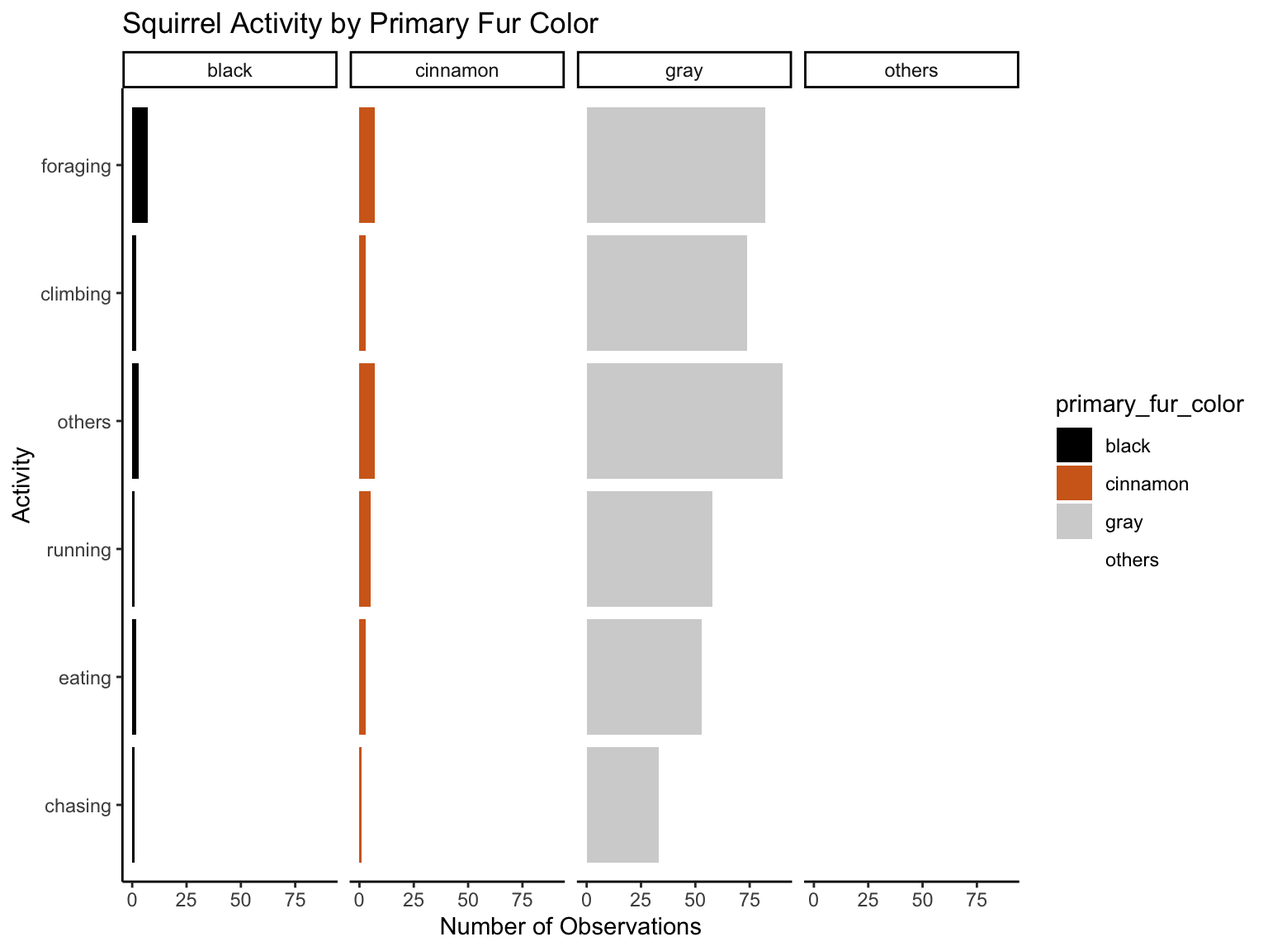
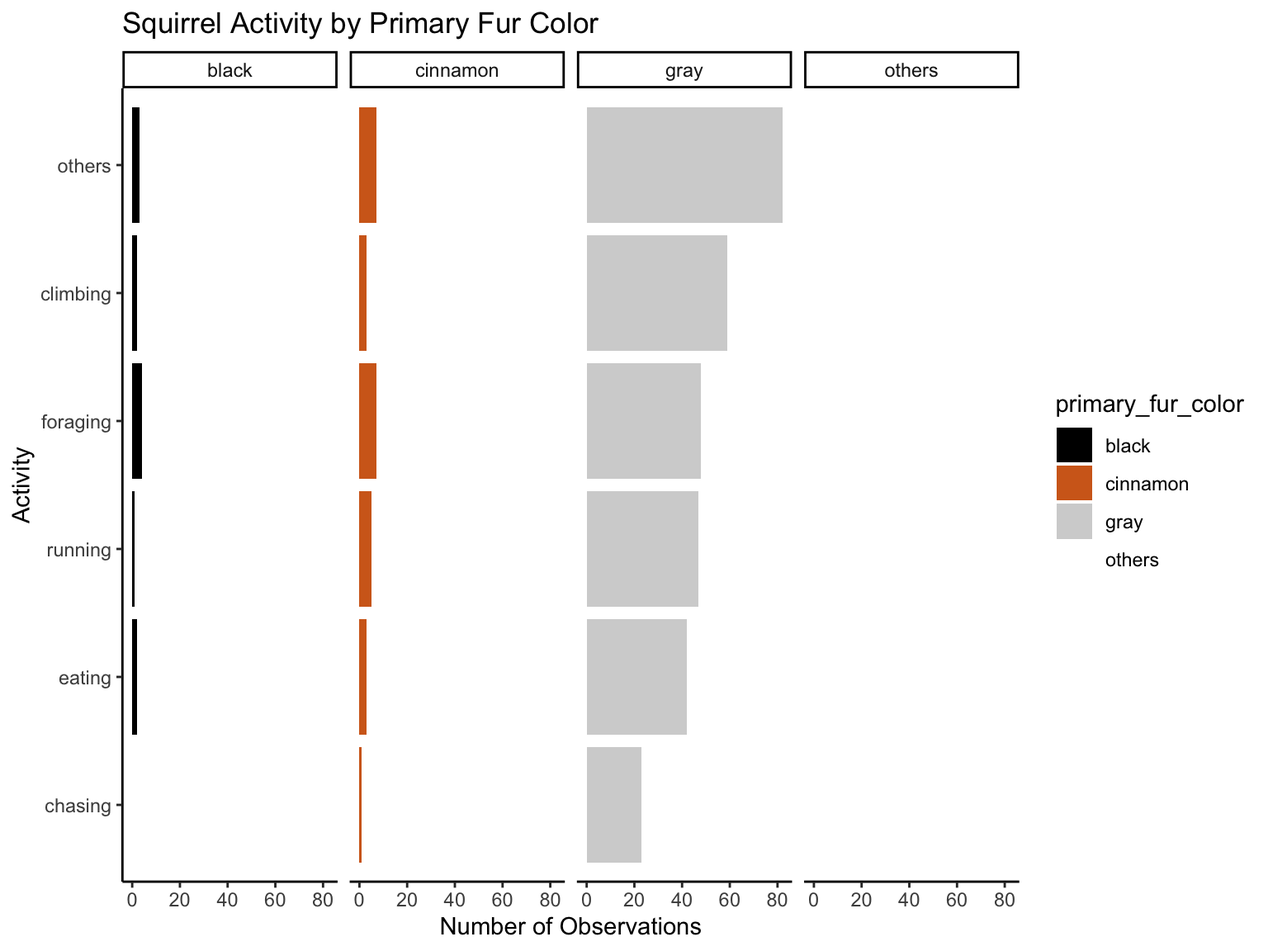
delete outlier observation and make color changes in graphs

diff --git a/sqr_nyc.html b/sqr_nyc.html
@@ -464,7 +464,8 @@ div.tocify {
        &quot;other_notes_or_observations&quot;,  &quot;squirrel_longitude_dd_dddddd&quot;,
           &quot;squirrel_latitude_dd_dddddd&quot;)
     ) %&gt;% 
-  dplyr::select(unique_squirrel_id,everything()) 
+  dplyr::select(unique_squirrel_id,everything()) %&gt;% 
+  filter(long &lt; -70 )
 
 # sqr_nyc %&gt;% group_by(activity) %&gt;%
 #   summarize(n = n()) %&gt;%
@@ -508,13 +509,13 @@ location (above ground, ground plane).</p>
   geom_col(aes(y=n,x = activity, fill = location), position=&quot;fill&quot;) +
   ggtitle(&#39;Central Park Squirrels Acitivities by Location&#39;) +
   theme(plot.title = element_text(hjust = 0.5)) +
-  labs( x = &#39;Activity&#39;, y= &#39;Proportion&#39;) +
+ theme(plot.title = element_text(hjust = 0.5), panel.grid.minor = element_blank(),panel.grid.major = element_blank())+ labs( x = &#39;Activity&#39;, y= &#39;Proportion&#39;)+
   labs(fill = &#39;Location&#39;) </code></pre>
 <p><img src="sqr_nyc_files/figure-html/unnamed-chunk-3-1.png" width="90%" /></p>
 </div>
 <div id="primary-fur-color-map" class="section level2">
 <h2>Primary Fur Color Map</h2>
-<pre class="r"><code>pal_coats &lt;- colorFactor(c(&quot;#000000&quot;, &quot;#D2691E&quot;, &quot;#D3D3D3&quot;, &quot;white&quot;), domain = c(&quot;black&quot;, &quot;cinnamon&quot;, &quot;gray&quot;, &quot;NA&quot;))
+<pre class="r"><code>pal_coats &lt;- colorFactor(c(&quot;#000000&quot;, &quot;#D2691E&quot;, &quot;#D3D3D3&quot;, &quot;white&quot;), domain = c(&quot;black&quot;, &quot;cinnamon&quot;, &quot;grey&quot;, &quot;others&quot;))
 
 #Locations based on fur color
 sqr_nyc %&gt;%
@@ -524,8 +525,8 @@ sqr_nyc %&gt;%
   addCircleMarkers(lng = ~long,
                    lat = ~lat, radius = 3, color = ~pal_coats(primary_fur_color), stroke = FALSE, fillOpacity = 0.5) %&gt;%
   addLegend(position = &quot;topright&quot;,pal = pal_coats, values = ~primary_fur_color)</code></pre>
-<div id="htmlwidget-a8725fe0ea62c5f6ec54" style="width:90%;height:576px;" class="leaflet html-widget"></div>
-<script type="application/json" data-for="htmlwidget-a8725fe0ea62c5f6ec54">{"x":{"options":{"crs":{"crsClass":"L.CRS.EPSG3857","code":null,"proj4def":null,"projectedBounds":null,"options":{}}},"calls":[{"method":"addTiles","args":["https://{s}.tile.openstreetmap.org/{z}/{x}/{y}.png",null,null,{"minZoom":0,"maxZoom":18,"tileSize":256,"subdomains":"abc","errorTileUrl":"","tms":false,"noWrap":false,"zoomOffset":0,"zoomReverse":false,"opacity":1,"zIndex":1,"detectRetina":false,"attribution":"&copy; <a href=\"https://openstreetmap.org\">OpenStreetMap<\/a> contributors, <a href=\"https://creativecommons.org/licenses/by-sa/2.0/\">CC-BY-SA<\/a>"}]},{"method":"addCircleMarkers","args":[[40.85941,40.859436,40.859416,40.859418,40.859493,40.860825,40.860225,40.859965,40.859892,40.859636,40.859576,40.859989,40.845749,40.845875,40.845875,40.846088,40.846088,40.846088,40.846222,40.846222,40.846197,40.846185,40.846271,40.846332,40.846332,40.846332,40.846458,40.846417,40.846296,40.846064,40.846065,40.847296,40.847259,40.84719,40.84719,40.847113,40.841178,40.841204,40.841212,40.841217,40.841359,40.841375,40.841375,40.842308,40.842401,40.842511,40.842673,40.842795,null,40.842327,40.842359,40.842769,40.817593,40.817719,40.817719,40.817711,40.817569,40.817544,40.817544,40.817479,40.816685,40.816677,40.816555,40.816506,40.816425,40.818308,40.818263,null,null,null,null,null,null,null,null,null,null,null,null,null,null,null,null,null,null,null,null,null,null,null,null,null,null,null,null,40.804912,40.804912,40.804913,40.804915,40.804916,40.804914,40.804917,40.804912,40.804701,40.804746,40.804912,40.804729,40.804713,40.804613,40.804564,40.804253,40.803758,40.803616,40.803413,40.80338,40.803392,40.803794,40.803795,40.803794,40.803794,40.803796,40.803795,40.80362,40.80352,40.803507,40.803981,40.804123,40.803981,40.804878,40.74145,40.742255,40.742556,40.742792,40.74288,40.742421,40.742421,40.742807,40.741528,40.741805,40.741862,40.735981,40.735847,40.735896,40.73579,40.735941,40.73566,40.735636,40.73566,40.735587,40.73542,40.735514,40.735945,40.735947,40.73604,40.73618,40.736298,40.733753,40.733648,40.733631,40.733546,40.733591,40.733648,40.733737,40.733501,40.733575,40.733506,40.733619,40.733648,40.733737,40.733932,40.734014,40.734221,40.734083,40.73403,40.734204,40.734314,40.734261,40.734144,40.734335,40.734383,40.734356,40.730703,40.730638,40.730528,40.730394,40.730341,40.7303,40.730247,40.730231,40.730223,40.730077,null,null,null,null,40.729858,40.72985,40.729822,40.729809,40.729939,40.729976,40.72996,40.729927,40.729988,40.72998,40.730318,40.730301,40.730334,40.730411,40.730395,40.730411,40.731031,40.731504,40.731548,40.731608,40.731503,40.731552,40.731952,40.731936,40.732001,40.731974,40.731861,40.731804,40.731747,40.731665,40.731548,40.731389,40.7312,40.731119,40.731103,40.73092,40.730782,null,null,null,null,null,null,null,null,null,null,null,null,null,null,null,null,null,null,null,null,null,null,null,null,null,null,null,null,null,null,null,null,null,null,null,null,null,null,null,null,null,null,null,null,null,null,null,null,null,null,null,null,null,null,null,null,null,null,null,40.725738,40.722614,40.72263,40.72263,40.722614,40.722173,40.719379,40.71935,40.721923,40.724011,40.724608,40.724774,40.715415,40.715484,40.714749,40.71468,40.714846,40.715033,40.715208,40.712159,40.712199,40.712118,40.712179,40.712216,40.712224,40.71224,40.711927,40.711866,40.71174,40.711442,40.711316,40.711417,40.711421,40.711409,40.711303,40.714867,40.7159,40.714875,40.715779,40.716335,40.712828,40.712938,40.712938,40.712893,40.712893,40.712922,40.712922,40.713044,40.712836,40.712881,40.712995,40.713044,40.713276,40.713339,40.713518,40.71312,40.712872,40.712872,40.704053,40.704011,40.703897,40.703885,40.703848,40.703882,40.704211,40.704142,40.704175,40.704171,40.704468,40.704453,40.70442,40.704188,40.70352,40.703487,40.703989,40.703383,40.70295,40.702934,40.702922,40.702411,40.702313,40.702467,40.702597,40.702618,40.725308,40.725511,40.725511,40.725478,40.725527,40.725397,40.725413,40.724755,40.723974,40.723462,40.725372,40.725364,40.725397,40.725197,40.72167,40.721768,40.721662,40.721857,40.721941,40.722039,40.72147,40.721713,40.721933,40.722283,40.722698,40.722819,40.722966,40.723136,40.723071,40.723006,40.722962,40.722603,40.721247,40.720606,40.720582,40.720533,40.720488,40.720458,40.720018,40.720026,40.719777,40.720114,40.719944,40.720448,40.720412,40.720372,40.720749,40.721181,40.721181,40.72112,40.721315,40.721258,40.721217,40.721173,40.721161,40.721124,40.721026,40.719376],[-73.933936,-73.933937,-73.933894,-73.933895,-73.93359,-73.932871,-73.933143,-73.933412,-73.933326,-73.933717,-73.933738,-73.934544,-73.9407,-73.940808,-73.940808,-73.940613,-73.940613,-73.940613,-73.94094,-73.94094,-73.941026,-73.940613,-73.940579,-73.940369,-73.940369,-73.940369,-73.94103,-73.941115,-73.941132,-73.941497,-73.941498,-73.942061,-73.941598,-73.941308,-73.941308,-73.940937,-73.935482,-73.935434,-73.934827,-73.934714,-73.934339,-73.934242,-73.934242,-73.933061,-73.932986,-73.932916,-73.932793,-73.933002,null,-73.934269,-73.934177,-73.934478,-73.948855,-73.948855,-73.948914,-73.949118,-73.948931,-73.949016,-73.949016,-73.949006,-73.949689,-73.949549,-73.949609,-73.949587,-73.949474,-73.948952,-73.948909,null,null,null,null,null,null,null,null,null,null,null,null,null,null,null,null,null,null,null,null,null,null,null,null,null,null,null,null,-73.943735,-73.943736,-73.943735,-73.943737,-73.943735,-73.943736,-73.943737,-73.943738,-73.944118,-73.94374,-73.94408,-73.944053,-73.944032,-73.943829,-73.943824,-73.944121,-73.94433,-73.944464,-73.944207,-73.944148,-73.944228,-73.944003,-73.944003,-73.944004,-73.944005,-73.944003,-73.944004,-73.944067,-73.943629,-73.943661,-73.943327,-73.943402,-73.943273,-73.942781,-73.987884,-73.987433,-73.986971,-73.987046,-73.987663,-73.98808,-73.98808,-73.988435,-73.988324,-73.988448,-73.988797,-73.99062,-73.990115,-73.99041,-73.990738,-73.99063,-73.990351,-73.990426,-73.990351,-73.990367,-73.990453,-73.99033,-73.990201,-73.99023,-73.98966,-73.990683,-73.990559,-73.983682,-73.983483,-73.983419,-73.983263,-73.983263,-73.984294,-73.98438,-73.984417,-73.984391,-73.984553,-73.984708,-73.984638,-73.984644,-73.984612,-73.984461,-73.984397,-73.984322,-73.984199,-73.984242,-73.984231,-73.984284,-73.984059,-73.984038,-73.984118,-73.984062,-73.995821,-73.995784,-73.995891,-73.996009,-73.996052,-73.996106,-73.996175,-73.996138,-73.996132,-73.996277,null,null,null,null,-73.996843,-73.996778,-73.996816,-73.996762,-73.997068,-73.997154,-73.997079,-73.997036,-73.997106,-73.997031,-73.997213,-73.997251,-73.997589,-73.997589,-73.997535,-73.997766,-73.999122,-73.998977,-73.998842,-73.998928,-73.999014,-73.998788,-73.998647,-73.998598,-73.998491,-73.998482,-73.998122,-73.997999,-73.997859,-73.997747,-73.99758,-73.997231,-73.996805,-73.996655,-73.996601,-73.996242,-73.996017,null,null,null,null,null,null,null,null,null,null,null,null,null,null,null,null,null,null,null,null,null,null,null,null,null,null,null,null,null,null,null,null,null,null,null,null,null,null,null,null,null,null,null,null,null,null,null,null,null,null,null,null,null,null,null,null,null,null,null,-73.972105,-73.972894,-73.973001,-73.973109,-73.973033,-73.97272,-73.973504,-73.973445,-73.974121,-73.97313,-73.972841,-73.97275,-73.989567,-73.989299,-73.989577,-73.989776,-73.989679,-73.989609,-73.989534,-73.979415,-73.979519,-73.97968,-73.979776,-73.979857,-73.979669,-73.979744,-73.979658,-73.97976,-73.980539,-73.978354,-73.978343,73.977767,-73.977692,-73.977719,-73.97759,-74.000236,-74.000167,-74.000346,-73.999887,-74.015612,-74.005072,-74.005152,-74.005152,-74.005233,-74.005233,-74.005147,-74.005147,-74.005404,-74.005662,-74.005823,-74.005963,-74.006242,-74.006323,-74.006313,-74.006308,-74.006862,-74.006878,-74.006878,-74.01612,-74.016134,-74.016118,-74.016161,-74.016134,-74.015955,-74.015859,-74.015837,-74.015306,-74.015242,-74.014774,-74.014757,-74.014741,-74.014853,-74.015273,-74.015278,-74.015202,-74.015584,-74.015813,-74.015775,-74.016629,-74.015896,-74.015644,-74.015757,-74.016132,-74.016556,-73.942789,-73.943609,-73.943448,-73.944113,-73.943974,-73.944124,-73.943984,-73.944006,-73.943845,-73.943952,-73.943652,-73.943512,-73.943297,-73.943273,-73.953364,-73.953192,-73.953278,-73.953139,-73.952947,-73.952796,-73.952857,-73.95305,-73.953147,-73.953115,-73.953198,-73.952095,-73.951987,-73.951794,-73.951697,-73.951655,-73.951752,-73.951449,-73.951609,-73.952769,-73.952694,-73.95272,-73.952806,-73.954244,-73.953442,-73.953652,-73.952774,-73.952768,-73.952505,-73.952521,-73.952353,-73.952326,-73.951891,-73.951255,-73.951255,-73.95104,-73.950943,-73.950799,-73.95077,-73.950781,-73.950732,-73.950797,-73.950765,-73.952326],3,null,null,{"interactive":true,"className":"","stroke":false,"color":["#D3D3D3","#D3D3D3","#D3D3D3","#D3D3D3","#D3D3D3","#D3D3D3","#D3D3D3","#000000","#D3D3D3","#D3D3D3","#D3D3D3","#D3D3D3","#D3D3D3","#D3D3D3","#D3D3D3","#D3D3D3","#D3D3D3","#D3D3D3","#D3D3D3","#D3D3D3","#D3D3D3","#D3D3D3","#D3D3D3","#D3D3D3","#D3D3D3","#D3D3D3","#D3D3D3","#D3D3D3","#D3D3D3","#D3D3D3","#D3D3D3","#D3D3D3","#D3D3D3","#D3D3D3","#D3D3D3","#D2691E","#D3D3D3","#D3D3D3","#D3D3D3","#D3D3D3","#D3D3D3","#D3D3D3","#D3D3D3","#D3D3D3","#D3D3D3","#D3D3D3","#D3D3D3","#D3D3D3","#D3D3D3","#D3D3D3","#D3D3D3","#D3D3D3","#D3D3D3","#000000","#D3D3D3","#D3D3D3","#D3D3D3","#D3D3D3","#D3D3D3","#D3D3D3","#D3D3D3","#D3D3D3","#000000","#D3D3D3","#D3D3D3","#D3D3D3","#D3D3D3","#D3D3D3","#D3D3D3","#D3D3D3","#D3D3D3","#D3D3D3","#D3D3D3","#D3D3D3","#D3D3D3","#D3D3D3","#D3D3D3","#D3D3D3","#D3D3D3","#D3D3D3","#D3D3D3","#D3D3D3","#D3D3D3","#D3D3D3","#D3D3D3","#D3D3D3","#D3D3D3","#D3D3D3","#D3D3D3","#D3D3D3","#D3D3D3","#D3D3D3","#D3D3D3","#D3D3D3","#D3D3D3","#D3D3D3","#D3D3D3","#D3D3D3","#D3D3D3","#D3D3D3","#D3D3D3","#D3D3D3","#000000","#D3D3D3","#D3D3D3","#D3D3D3","#D3D3D3","#D3D3D3","#D3D3D3","#D3D3D3","#D3D3D3","#D3D3D3","#D3D3D3","#D3D3D3","#D3D3D3","#D3D3D3","#D3D3D3","#D3D3D3","#D3D3D3","#D3D3D3","#D3D3D3","#D3D3D3","#D3D3D3","#D3D3D3","#D3D3D3","#D3D3D3","#D3D3D3","#000000","#D3D3D3","#D3D3D3","#D3D3D3","#D3D3D3","#D3D3D3","#D3D3D3","#D3D3D3","#D3D3D3","#D3D3D3","#D3D3D3","#D3D3D3","#D3D3D3","#D2691E","#D3D3D3","#D2691E","#D3D3D3","#D3D3D3","#D3D3D3","#D3D3D3","#D3D3D3","#D3D3D3","#D3D3D3","#D2691E","#D3D3D3","#D2691E","#D3D3D3","#D3D3D3","#D2691E","#D3D3D3","#D3D3D3","#D3D3D3","#D3D3D3","#D3D3D3","#D3D3D3","#D3D3D3","#D3D3D3","#D3D3D3","#D3D3D3","#D3D3D3","#D3D3D3","#D3D3D3","#000000","#000000","#000000","#D3D3D3","#D3D3D3","#000000","#D3D3D3","#D3D3D3","#D3D3D3","#D3D3D3","#000000","#000000","#D3D3D3","#D3D3D3","#D3D3D3","#D3D3D3","#D3D3D3","#D3D3D3","#D3D3D3","#D3D3D3","#D3D3D3","#D3D3D3","#D3D3D3","#D3D3D3","#D3D3D3","#D3D3D3","#D3D3D3","#D3D3D3","#D3D3D3","#D3D3D3","#D3D3D3","#D3D3D3","#D3D3D3","#D3D3D3","#D3D3D3","#D3D3D3","#D3D3D3","#D3D3D3","#D3D3D3","#D3D3D3","#D3D3D3","#D3D3D3","#D3D3D3","#D3D3D3","#D3D3D3","#D3D3D3","#D3D3D3","#D3D3D3","#D3D3D3","#D3D3D3","#D3D3D3","#D3D3D3","#D3D3D3","#D3D3D3","#D3D3D3","#D3D3D3","#D3D3D3","#D3D3D3","#D3D3D3","#D3D3D3","#D3D3D3","#D3D3D3","#D3D3D3","#D3D3D3","#D3D3D3","#000000","#D3D3D3","#D3D3D3","#D3D3D3","#D3D3D3","#D3D3D3","#D3D3D3","#D3D3D3","#D3D3D3","#D3D3D3","#D3D3D3","#D3D3D3","#D3D3D3","#D3D3D3","#D3D3D3","#D3D3D3","#D3D3D3","#D3D3D3","#D3D3D3","#D3D3D3","#D3D3D3","#D3D3D3","#D3D3D3","#D3D3D3","#D3D3D3","#D3D3D3","#D3D3D3","#D3D3D3","#D3D3D3","#D3D3D3","#D3D3D3","#D3D3D3","#D3D3D3","#D3D3D3","#D3D3D3","#D3D3D3","#D3D3D3","#D3D3D3","#D3D3D3","#D3D3D3","#D3D3D3","#D3D3D3","#D3D3D3","#D3D3D3","#D3D3D3","#000000","#000000","#D3D3D3","#000000","#D3D3D3","#D3D3D3","#D3D3D3","#D3D3D3","#D3D3D3","#D3D3D3","#D3D3D3","#D3D3D3","#D3D3D3","#000000","#D3D3D3","#D3D3D3","#D3D3D3","#D3D3D3","#D3D3D3","#D3D3D3","#D3D3D3","#D3D3D3","#D3D3D3","#D3D3D3","#D3D3D3","#D3D3D3","#D3D3D3","#D3D3D3","#D3D3D3","#D3D3D3","#D3D3D3","#D3D3D3","#D3D3D3","#D3D3D3","#D3D3D3","#D3D3D3","#D3D3D3","#D3D3D3","#D3D3D3","#D3D3D3","#D3D3D3","#D3D3D3","#D3D3D3","#D3D3D3","#D3D3D3","#D3D3D3","#D2691E","#D3D3D3","#D3D3D3","#D3D3D3","#D3D3D3","#D3D3D3","#D3D3D3","#D3D3D3","#D3D3D3","#D3D3D3","#D3D3D3","#D3D3D3","#D3D3D3","#D3D3D3","#D3D3D3","#D3D3D3","#D3D3D3","#D3D3D3","#D3D3D3","#D3D3D3","#D3D3D3","#D3D3D3","#D3D3D3","#D3D3D3","#D3D3D3","#D3D3D3","#D3D3D3","#808080","#D3D3D3","#D2691E","#D2691E","#D3D3D3","#D3D3D3","#D3D3D3","#D3D3D3","#D3D3D3","#D3D3D3","#D3D3D3","#D3D3D3","#D3D3D3","#D3D3D3","#D3D3D3","#D3D3D3","#D2691E","#D3D3D3","#D2691E","#D3D3D3","#D3D3D3","#D3D3D3","#D3D3D3","#D3D3D3","#D3D3D3","#D3D3D3","#D3D3D3","#D3D3D3","#D3D3D3","#D3D3D3","#D3D3D3","#D3D3D3","#D3D3D3","#D3D3D3","#D3D3D3","#D3D3D3","#D3D3D3","#D2691E","#D3D3D3","#D3D3D3","#D3D3D3","#D2691E","#D2691E","#D2691E","#D2691E","#D3D3D3","#D3D3D3","#D3D3D3","#D3D3D3","#D3D3D3","#D2691E","#D3D3D3","#D2691E","#D3D3D3","#D2691E","#D2691E","#D3D3D3","#D3D3D3","#D3D3D3","#D3D3D3","#D3D3D3","#D3D3D3","#D3D3D3","#D3D3D3","#D3D3D3","#D3D3D3","#D3D3D3","#D2691E","#D3D3D3","#D3D3D3","#D2691E","#D2691E","#D2691E","#D3D3D3","#D3D3D3","#D3D3D3","#D2691E","#D2691E","#D3D3D3","#D3D3D3","#D3D3D3"],"weight":5,"opacity":0.5,"fill":true,"fillColor":["#D3D3D3","#D3D3D3","#D3D3D3","#D3D3D3","#D3D3D3","#D3D3D3","#D3D3D3","#000000","#D3D3D3","#D3D3D3","#D3D3D3","#D3D3D3","#D3D3D3","#D3D3D3","#D3D3D3","#D3D3D3","#D3D3D3","#D3D3D3","#D3D3D3","#D3D3D3","#D3D3D3","#D3D3D3","#D3D3D3","#D3D3D3","#D3D3D3","#D3D3D3","#D3D3D3","#D3D3D3","#D3D3D3","#D3D3D3","#D3D3D3","#D3D3D3","#D3D3D3","#D3D3D3","#D3D3D3","#D2691E","#D3D3D3","#D3D3D3","#D3D3D3","#D3D3D3","#D3D3D3","#D3D3D3","#D3D3D3","#D3D3D3","#D3D3D3","#D3D3D3","#D3D3D3","#D3D3D3","#D3D3D3","#D3D3D3","#D3D3D3","#D3D3D3","#D3D3D3","#000000","#D3D3D3","#D3D3D3","#D3D3D3","#D3D3D3","#D3D3D3","#D3D3D3","#D3D3D3","#D3D3D3","#000000","#D3D3D3","#D3D3D3","#D3D3D3","#D3D3D3","#D3D3D3","#D3D3D3","#D3D3D3","#D3D3D3","#D3D3D3","#D3D3D3","#D3D3D3","#D3D3D3","#D3D3D3","#D3D3D3","#D3D3D3","#D3D3D3","#D3D3D3","#D3D3D3","#D3D3D3","#D3D3D3","#D3D3D3","#D3D3D3","#D3D3D3","#D3D3D3","#D3D3D3","#D3D3D3","#D3D3D3","#D3D3D3","#D3D3D3","#D3D3D3","#D3D3D3","#D3D3D3","#D3D3D3","#D3D3D3","#D3D3D3","#D3D3D3","#D3D3D3","#D3D3D3","#D3D3D3","#000000","#D3D3D3","#D3D3D3","#D3D3D3","#D3D3D3","#D3D3D3","#D3D3D3","#D3D3D3","#D3D3D3","#D3D3D3","#D3D3D3","#D3D3D3","#D3D3D3","#D3D3D3","#D3D3D3","#D3D3D3","#D3D3D3","#D3D3D3","#D3D3D3","#D3D3D3","#D3D3D3","#D3D3D3","#D3D3D3","#D3D3D3","#D3D3D3","#000000","#D3D3D3","#D3D3D3","#D3D3D3","#D3D3D3","#D3D3D3","#D3D3D3","#D3D3D3","#D3D3D3","#D3D3D3","#D3D3D3","#D3D3D3","#D3D3D3","#D2691E","#D3D3D3","#D2691E","#D3D3D3","#D3D3D3","#D3D3D3","#D3D3D3","#D3D3D3","#D3D3D3","#D3D3D3","#D2691E","#D3D3D3","#D2691E","#D3D3D3","#D3D3D3","#D2691E","#D3D3D3","#D3D3D3","#D3D3D3","#D3D3D3","#D3D3D3","#D3D3D3","#D3D3D3","#D3D3D3","#D3D3D3","#D3D3D3","#D3D3D3","#D3D3D3","#D3D3D3","#000000","#000000","#000000","#D3D3D3","#D3D3D3","#000000","#D3D3D3","#D3D3D3","#D3D3D3","#D3D3D3","#000000","#000000","#D3D3D3","#D3D3D3","#D3D3D3","#D3D3D3","#D3D3D3","#D3D3D3","#D3D3D3","#D3D3D3","#D3D3D3","#D3D3D3","#D3D3D3","#D3D3D3","#D3D3D3","#D3D3D3","#D3D3D3","#D3D3D3","#D3D3D3","#D3D3D3","#D3D3D3","#D3D3D3","#D3D3D3","#D3D3D3","#D3D3D3","#D3D3D3","#D3D3D3","#D3D3D3","#D3D3D3","#D3D3D3","#D3D3D3","#D3D3D3","#D3D3D3","#D3D3D3","#D3D3D3","#D3D3D3","#D3D3D3","#D3D3D3","#D3D3D3","#D3D3D3","#D3D3D3","#D3D3D3","#D3D3D3","#D3D3D3","#D3D3D3","#D3D3D3","#D3D3D3","#D3D3D3","#D3D3D3","#D3D3D3","#D3D3D3","#D3D3D3","#D3D3D3","#D3D3D3","#D3D3D3","#000000","#D3D3D3","#D3D3D3","#D3D3D3","#D3D3D3","#D3D3D3","#D3D3D3","#D3D3D3","#D3D3D3","#D3D3D3","#D3D3D3","#D3D3D3","#D3D3D3","#D3D3D3","#D3D3D3","#D3D3D3","#D3D3D3","#D3D3D3","#D3D3D3","#D3D3D3","#D3D3D3","#D3D3D3","#D3D3D3","#D3D3D3","#D3D3D3","#D3D3D3","#D3D3D3","#D3D3D3","#D3D3D3","#D3D3D3","#D3D3D3","#D3D3D3","#D3D3D3","#D3D3D3","#D3D3D3","#D3D3D3","#D3D3D3","#D3D3D3","#D3D3D3","#D3D3D3","#D3D3D3","#D3D3D3","#D3D3D3","#D3D3D3","#D3D3D3","#000000","#000000","#D3D3D3","#000000","#D3D3D3","#D3D3D3","#D3D3D3","#D3D3D3","#D3D3D3","#D3D3D3","#D3D3D3","#D3D3D3","#D3D3D3","#000000","#D3D3D3","#D3D3D3","#D3D3D3","#D3D3D3","#D3D3D3","#D3D3D3","#D3D3D3","#D3D3D3","#D3D3D3","#D3D3D3","#D3D3D3","#D3D3D3","#D3D3D3","#D3D3D3","#D3D3D3","#D3D3D3","#D3D3D3","#D3D3D3","#D3D3D3","#D3D3D3","#D3D3D3","#D3D3D3","#D3D3D3","#D3D3D3","#D3D3D3","#D3D3D3","#D3D3D3","#D3D3D3","#D3D3D3","#D3D3D3","#D3D3D3","#D3D3D3","#D2691E","#D3D3D3","#D3D3D3","#D3D3D3","#D3D3D3","#D3D3D3","#D3D3D3","#D3D3D3","#D3D3D3","#D3D3D3","#D3D3D3","#D3D3D3","#D3D3D3","#D3D3D3","#D3D3D3","#D3D3D3","#D3D3D3","#D3D3D3","#D3D3D3","#D3D3D3","#D3D3D3","#D3D3D3","#D3D3D3","#D3D3D3","#D3D3D3","#D3D3D3","#D3D3D3","#808080","#D3D3D3","#D2691E","#D2691E","#D3D3D3","#D3D3D3","#D3D3D3","#D3D3D3","#D3D3D3","#D3D3D3","#D3D3D3","#D3D3D3","#D3D3D3","#D3D3D3","#D3D3D3","#D3D3D3","#D2691E","#D3D3D3","#D2691E","#D3D3D3","#D3D3D3","#D3D3D3","#D3D3D3","#D3D3D3","#D3D3D3","#D3D3D3","#D3D3D3","#D3D3D3","#D3D3D3","#D3D3D3","#D3D3D3","#D3D3D3","#D3D3D3","#D3D3D3","#D3D3D3","#D3D3D3","#D3D3D3","#D2691E","#D3D3D3","#D3D3D3","#D3D3D3","#D2691E","#D2691E","#D2691E","#D2691E","#D3D3D3","#D3D3D3","#D3D3D3","#D3D3D3","#D3D3D3","#D2691E","#D3D3D3","#D2691E","#D3D3D3","#D2691E","#D2691E","#D3D3D3","#D3D3D3","#D3D3D3","#D3D3D3","#D3D3D3","#D3D3D3","#D3D3D3","#D3D3D3","#D3D3D3","#D3D3D3","#D3D3D3","#D2691E","#D3D3D3","#D3D3D3","#D2691E","#D2691E","#D2691E","#D3D3D3","#D3D3D3","#D3D3D3","#D2691E","#D2691E","#D3D3D3","#D3D3D3","#D3D3D3"],"fillOpacity":0.5},null,null,null,null,null,{"interactive":false,"permanent":false,"direction":"auto","opacity":1,"offset":[0,0],"textsize":"10px","textOnly":false,"className":"","sticky":true},null]},{"method":"addLegend","args":[{"colors":["#000000","#D2691E","#D3D3D3","#808080"],"labels":["black","cinnamon","gray","others"],"na_color":null,"na_label":"NA","opacity":0.5,"position":"topright","type":"factor","title":"primary_fur_color","extra":null,"layerId":null,"className":"info legend","group":null}]}],"limits":{"lat":[40.702313,40.860825],"lng":[-74.016629,73.977767]}},"evals":[],"jsHooks":[]}</script>
+<div id="htmlwidget-46ae6a659ac3195ee392" style="width:90%;height:576px;" class="leaflet html-widget"></div>
+<script type="application/json" data-for="htmlwidget-46ae6a659ac3195ee392">{"x":{"options":{"crs":{"crsClass":"L.CRS.EPSG3857","code":null,"proj4def":null,"projectedBounds":null,"options":{}}},"calls":[{"method":"addTiles","args":["https://{s}.tile.openstreetmap.org/{z}/{x}/{y}.png",null,null,{"minZoom":0,"maxZoom":18,"tileSize":256,"subdomains":"abc","errorTileUrl":"","tms":false,"noWrap":false,"zoomOffset":0,"zoomReverse":false,"opacity":1,"zIndex":1,"detectRetina":false,"attribution":"&copy; <a href=\"https://openstreetmap.org\">OpenStreetMap<\/a> contributors, <a href=\"https://creativecommons.org/licenses/by-sa/2.0/\">CC-BY-SA<\/a>"}]},{"method":"addCircleMarkers","args":[[40.85941,40.859436,40.859416,40.859418,40.859493,40.860825,40.860225,40.859965,40.859892,40.859636,40.859576,40.859989,40.845749,40.845875,40.845875,40.846088,40.846088,40.846088,40.846222,40.846222,40.846197,40.846185,40.846271,40.846332,40.846332,40.846332,40.846458,40.846417,40.846296,40.846064,40.846065,40.847296,40.847259,40.84719,40.84719,40.847113,40.841178,40.841204,40.841212,40.841217,40.841359,40.841375,40.841375,40.842308,40.842401,40.842511,40.842673,40.842795,40.842327,40.842359,40.842769,40.817593,40.817719,40.817719,40.817711,40.817569,40.817544,40.817544,40.817479,40.816685,40.816677,40.816555,40.816506,40.816425,40.818308,40.818263,40.804912,40.804912,40.804913,40.804915,40.804916,40.804914,40.804917,40.804912,40.804701,40.804746,40.804912,40.804729,40.804713,40.804613,40.804564,40.804253,40.803758,40.803616,40.803413,40.80338,40.803392,40.803794,40.803795,40.803794,40.803794,40.803796,40.803795,40.80362,40.80352,40.803507,40.803981,40.804123,40.803981,40.804878,40.74145,40.742255,40.742556,40.742792,40.74288,40.742421,40.742421,40.742807,40.741528,40.741805,40.741862,40.735981,40.735847,40.735896,40.73579,40.735941,40.73566,40.735636,40.73566,40.735587,40.73542,40.735514,40.735945,40.735947,40.73604,40.73618,40.736298,40.733753,40.733648,40.733631,40.733546,40.733591,40.733648,40.733737,40.733501,40.733575,40.733506,40.733619,40.733648,40.733737,40.733932,40.734014,40.734221,40.734083,40.73403,40.734204,40.734314,40.734261,40.734144,40.734335,40.734383,40.734356,40.730703,40.730638,40.730528,40.730394,40.730341,40.7303,40.730247,40.730231,40.730223,40.730077,40.729858,40.72985,40.729822,40.729809,40.729939,40.729976,40.72996,40.729927,40.729988,40.72998,40.730318,40.730301,40.730334,40.730411,40.730395,40.730411,40.731031,40.731504,40.731548,40.731608,40.731503,40.731552,40.731952,40.731936,40.732001,40.731974,40.731861,40.731804,40.731747,40.731665,40.731548,40.731389,40.7312,40.731119,40.731103,40.73092,40.730782,40.725738,40.722614,40.72263,40.72263,40.722614,40.722173,40.719379,40.71935,40.721923,40.724011,40.724608,40.724774,40.715415,40.715484,40.714749,40.71468,40.714846,40.715033,40.715208,40.712159,40.712199,40.712118,40.712179,40.712216,40.712224,40.71224,40.711927,40.711866,40.71174,40.711442,40.711316,40.711421,40.711409,40.711303,40.714867,40.7159,40.714875,40.715779,40.716335,40.712828,40.712938,40.712938,40.712893,40.712893,40.712922,40.712922,40.713044,40.712836,40.712881,40.712995,40.713044,40.713276,40.713339,40.713518,40.71312,40.712872,40.712872,40.704053,40.704011,40.703897,40.703885,40.703848,40.703882,40.704211,40.704142,40.704175,40.704171,40.704468,40.704453,40.70442,40.704188,40.70352,40.703487,40.703989,40.703383,40.70295,40.702934,40.702922,40.702411,40.702313,40.702467,40.702597,40.702618,40.725308,40.725511,40.725511,40.725478,40.725527,40.725397,40.725413,40.724755,40.723974,40.723462,40.725372,40.725364,40.725397,40.725197,40.72167,40.721768,40.721662,40.721857,40.721941,40.722039,40.72147,40.721713,40.721933,40.722283,40.722698,40.722819,40.722966,40.723136,40.723071,40.723006,40.722962,40.722603,40.721247,40.720606,40.720582,40.720533,40.720488,40.720458,40.720018,40.720026,40.719777,40.720114,40.719944,40.720448,40.720412,40.720372,40.720749,40.721181,40.721181,40.72112,40.721315,40.721258,40.721217,40.721173,40.721161,40.721124,40.721026,40.719376],[-73.933936,-73.933937,-73.933894,-73.933895,-73.93359,-73.932871,-73.933143,-73.933412,-73.933326,-73.933717,-73.933738,-73.934544,-73.9407,-73.940808,-73.940808,-73.940613,-73.940613,-73.940613,-73.94094,-73.94094,-73.941026,-73.940613,-73.940579,-73.940369,-73.940369,-73.940369,-73.94103,-73.941115,-73.941132,-73.941497,-73.941498,-73.942061,-73.941598,-73.941308,-73.941308,-73.940937,-73.935482,-73.935434,-73.934827,-73.934714,-73.934339,-73.934242,-73.934242,-73.933061,-73.932986,-73.932916,-73.932793,-73.933002,-73.934269,-73.934177,-73.934478,-73.948855,-73.948855,-73.948914,-73.949118,-73.948931,-73.949016,-73.949016,-73.949006,-73.949689,-73.949549,-73.949609,-73.949587,-73.949474,-73.948952,-73.948909,-73.943735,-73.943736,-73.943735,-73.943737,-73.943735,-73.943736,-73.943737,-73.943738,-73.944118,-73.94374,-73.94408,-73.944053,-73.944032,-73.943829,-73.943824,-73.944121,-73.94433,-73.944464,-73.944207,-73.944148,-73.944228,-73.944003,-73.944003,-73.944004,-73.944005,-73.944003,-73.944004,-73.944067,-73.943629,-73.943661,-73.943327,-73.943402,-73.943273,-73.942781,-73.987884,-73.987433,-73.986971,-73.987046,-73.987663,-73.98808,-73.98808,-73.988435,-73.988324,-73.988448,-73.988797,-73.99062,-73.990115,-73.99041,-73.990738,-73.99063,-73.990351,-73.990426,-73.990351,-73.990367,-73.990453,-73.99033,-73.990201,-73.99023,-73.98966,-73.990683,-73.990559,-73.983682,-73.983483,-73.983419,-73.983263,-73.983263,-73.984294,-73.98438,-73.984417,-73.984391,-73.984553,-73.984708,-73.984638,-73.984644,-73.984612,-73.984461,-73.984397,-73.984322,-73.984199,-73.984242,-73.984231,-73.984284,-73.984059,-73.984038,-73.984118,-73.984062,-73.995821,-73.995784,-73.995891,-73.996009,-73.996052,-73.996106,-73.996175,-73.996138,-73.996132,-73.996277,-73.996843,-73.996778,-73.996816,-73.996762,-73.997068,-73.997154,-73.997079,-73.997036,-73.997106,-73.997031,-73.997213,-73.997251,-73.997589,-73.997589,-73.997535,-73.997766,-73.999122,-73.998977,-73.998842,-73.998928,-73.999014,-73.998788,-73.998647,-73.998598,-73.998491,-73.998482,-73.998122,-73.997999,-73.997859,-73.997747,-73.99758,-73.997231,-73.996805,-73.996655,-73.996601,-73.996242,-73.996017,-73.972105,-73.972894,-73.973001,-73.973109,-73.973033,-73.97272,-73.973504,-73.973445,-73.974121,-73.97313,-73.972841,-73.97275,-73.989567,-73.989299,-73.989577,-73.989776,-73.989679,-73.989609,-73.989534,-73.979415,-73.979519,-73.97968,-73.979776,-73.979857,-73.979669,-73.979744,-73.979658,-73.97976,-73.980539,-73.978354,-73.978343,-73.977692,-73.977719,-73.97759,-74.000236,-74.000167,-74.000346,-73.999887,-74.015612,-74.005072,-74.005152,-74.005152,-74.005233,-74.005233,-74.005147,-74.005147,-74.005404,-74.005662,-74.005823,-74.005963,-74.006242,-74.006323,-74.006313,-74.006308,-74.006862,-74.006878,-74.006878,-74.01612,-74.016134,-74.016118,-74.016161,-74.016134,-74.015955,-74.015859,-74.015837,-74.015306,-74.015242,-74.014774,-74.014757,-74.014741,-74.014853,-74.015273,-74.015278,-74.015202,-74.015584,-74.015813,-74.015775,-74.016629,-74.015896,-74.015644,-74.015757,-74.016132,-74.016556,-73.942789,-73.943609,-73.943448,-73.944113,-73.943974,-73.944124,-73.943984,-73.944006,-73.943845,-73.943952,-73.943652,-73.943512,-73.943297,-73.943273,-73.953364,-73.953192,-73.953278,-73.953139,-73.952947,-73.952796,-73.952857,-73.95305,-73.953147,-73.953115,-73.953198,-73.952095,-73.951987,-73.951794,-73.951697,-73.951655,-73.951752,-73.951449,-73.951609,-73.952769,-73.952694,-73.95272,-73.952806,-73.954244,-73.953442,-73.953652,-73.952774,-73.952768,-73.952505,-73.952521,-73.952353,-73.952326,-73.951891,-73.951255,-73.951255,-73.95104,-73.950943,-73.950799,-73.95077,-73.950781,-73.950732,-73.950797,-73.950765,-73.952326],3,null,null,{"interactive":true,"className":"","stroke":false,"color":["#808080","#808080","#808080","#808080","#808080","#808080","#808080","#000000","#808080","#808080","#808080","#808080","#808080","#808080","#808080","#808080","#808080","#808080","#808080","#808080","#808080","#808080","#808080","#808080","#808080","#808080","#808080","#808080","#808080","#808080","#808080","#808080","#808080","#808080","#808080","#D2691E","#808080","#808080","#808080","#808080","#808080","#808080","#808080","#808080","#808080","#808080","#808080","#808080","#808080","#808080","#808080","#808080","#000000","#808080","#808080","#808080","#808080","#808080","#808080","#808080","#808080","#000000","#808080","#808080","#808080","#808080","#808080","#808080","#808080","#808080","#808080","#808080","#808080","#000000","#808080","#808080","#808080","#808080","#808080","#808080","#808080","#808080","#808080","#808080","#808080","#808080","#808080","#808080","#808080","#808080","#808080","#808080","#808080","#808080","#808080","#808080","#808080","#808080","#000000","#808080","#808080","#808080","#808080","#808080","#808080","#808080","#808080","#808080","#808080","#808080","#808080","#D2691E","#808080","#D2691E","#808080","#808080","#808080","#808080","#808080","#808080","#808080","#D2691E","#808080","#D2691E","#808080","#808080","#D2691E","#808080","#808080","#808080","#808080","#808080","#808080","#808080","#808080","#808080","#808080","#808080","#808080","#808080","#000000","#000000","#000000","#808080","#808080","#000000","#808080","#808080","#808080","#808080","#000000","#000000","#808080","#808080","#808080","#808080","#808080","#808080","#808080","#808080","#808080","#808080","#808080","#808080","#808080","#808080","#808080","#808080","#808080","#808080","#808080","#808080","#808080","#808080","#808080","#808080","#808080","#808080","#808080","#808080","#808080","#808080","#808080","#808080","#808080","#808080","#808080","#808080","#808080","#808080","#808080","#808080","#808080","#808080","#808080","#808080","#808080","#808080","#808080","#808080","#000000","#808080","#808080","#808080","#808080","#808080","#808080","#808080","#808080","#808080","#808080","#808080","#808080","#808080","#808080","#808080","#808080","#808080","#808080","#808080","#808080","#808080","#808080","#808080","#808080","#808080","#808080","#808080","#808080","#808080","#808080","#808080","#D2691E","#808080","#808080","#808080","#808080","#808080","#808080","#808080","#808080","#808080","#808080","#808080","#808080","#808080","#808080","#808080","#808080","#808080","#808080","#808080","#808080","#808080","#808080","#808080","#808080","#808080","#808080","#FFFFFF","#808080","#D2691E","#D2691E","#808080","#808080","#808080","#808080","#808080","#808080","#808080","#808080","#808080","#808080","#808080","#808080","#D2691E","#808080","#D2691E","#808080","#808080","#808080","#808080","#808080","#808080","#808080","#808080","#808080","#808080","#808080","#808080","#808080","#808080","#808080","#808080","#808080","#808080","#D2691E","#808080","#808080","#808080","#D2691E","#D2691E","#D2691E","#D2691E","#808080","#808080","#808080","#808080","#808080","#D2691E","#808080","#D2691E","#808080","#D2691E","#D2691E","#808080","#808080","#808080","#808080","#808080","#808080","#808080","#808080","#808080","#808080","#808080","#D2691E","#808080","#808080","#D2691E","#D2691E","#D2691E","#808080","#808080","#808080","#D2691E","#D2691E","#808080","#808080","#808080"],"weight":5,"opacity":0.5,"fill":true,"fillColor":["#808080","#808080","#808080","#808080","#808080","#808080","#808080","#000000","#808080","#808080","#808080","#808080","#808080","#808080","#808080","#808080","#808080","#808080","#808080","#808080","#808080","#808080","#808080","#808080","#808080","#808080","#808080","#808080","#808080","#808080","#808080","#808080","#808080","#808080","#808080","#D2691E","#808080","#808080","#808080","#808080","#808080","#808080","#808080","#808080","#808080","#808080","#808080","#808080","#808080","#808080","#808080","#808080","#000000","#808080","#808080","#808080","#808080","#808080","#808080","#808080","#808080","#000000","#808080","#808080","#808080","#808080","#808080","#808080","#808080","#808080","#808080","#808080","#808080","#000000","#808080","#808080","#808080","#808080","#808080","#808080","#808080","#808080","#808080","#808080","#808080","#808080","#808080","#808080","#808080","#808080","#808080","#808080","#808080","#808080","#808080","#808080","#808080","#808080","#000000","#808080","#808080","#808080","#808080","#808080","#808080","#808080","#808080","#808080","#808080","#808080","#808080","#D2691E","#808080","#D2691E","#808080","#808080","#808080","#808080","#808080","#808080","#808080","#D2691E","#808080","#D2691E","#808080","#808080","#D2691E","#808080","#808080","#808080","#808080","#808080","#808080","#808080","#808080","#808080","#808080","#808080","#808080","#808080","#000000","#000000","#000000","#808080","#808080","#000000","#808080","#808080","#808080","#808080","#000000","#000000","#808080","#808080","#808080","#808080","#808080","#808080","#808080","#808080","#808080","#808080","#808080","#808080","#808080","#808080","#808080","#808080","#808080","#808080","#808080","#808080","#808080","#808080","#808080","#808080","#808080","#808080","#808080","#808080","#808080","#808080","#808080","#808080","#808080","#808080","#808080","#808080","#808080","#808080","#808080","#808080","#808080","#808080","#808080","#808080","#808080","#808080","#808080","#808080","#000000","#808080","#808080","#808080","#808080","#808080","#808080","#808080","#808080","#808080","#808080","#808080","#808080","#808080","#808080","#808080","#808080","#808080","#808080","#808080","#808080","#808080","#808080","#808080","#808080","#808080","#808080","#808080","#808080","#808080","#808080","#808080","#D2691E","#808080","#808080","#808080","#808080","#808080","#808080","#808080","#808080","#808080","#808080","#808080","#808080","#808080","#808080","#808080","#808080","#808080","#808080","#808080","#808080","#808080","#808080","#808080","#808080","#808080","#808080","#FFFFFF","#808080","#D2691E","#D2691E","#808080","#808080","#808080","#808080","#808080","#808080","#808080","#808080","#808080","#808080","#808080","#808080","#D2691E","#808080","#D2691E","#808080","#808080","#808080","#808080","#808080","#808080","#808080","#808080","#808080","#808080","#808080","#808080","#808080","#808080","#808080","#808080","#808080","#808080","#D2691E","#808080","#808080","#808080","#D2691E","#D2691E","#D2691E","#D2691E","#808080","#808080","#808080","#808080","#808080","#D2691E","#808080","#D2691E","#808080","#D2691E","#D2691E","#808080","#808080","#808080","#808080","#808080","#808080","#808080","#808080","#808080","#808080","#808080","#D2691E","#808080","#808080","#D2691E","#D2691E","#D2691E","#808080","#808080","#808080","#D2691E","#D2691E","#808080","#808080","#808080"],"fillOpacity":0.5},null,null,null,null,null,{"interactive":false,"permanent":false,"direction":"auto","opacity":1,"offset":[0,0],"textsize":"10px","textOnly":false,"className":"","sticky":true},null]},{"method":"addLegend","args":[{"colors":["#000000","#D2691E","#808080","#FFFFFF"],"labels":["black","cinnamon","gray","others"],"na_color":null,"na_label":"NA","opacity":0.5,"position":"topright","type":"factor","title":"primary_fur_color","extra":null,"layerId":null,"className":"info legend","group":null}]}],"limits":{"lat":[40.702313,40.860825],"lng":[-74.016629,-73.932793]}},"evals":[],"jsHooks":[]}</script>
 </div>
 
 
